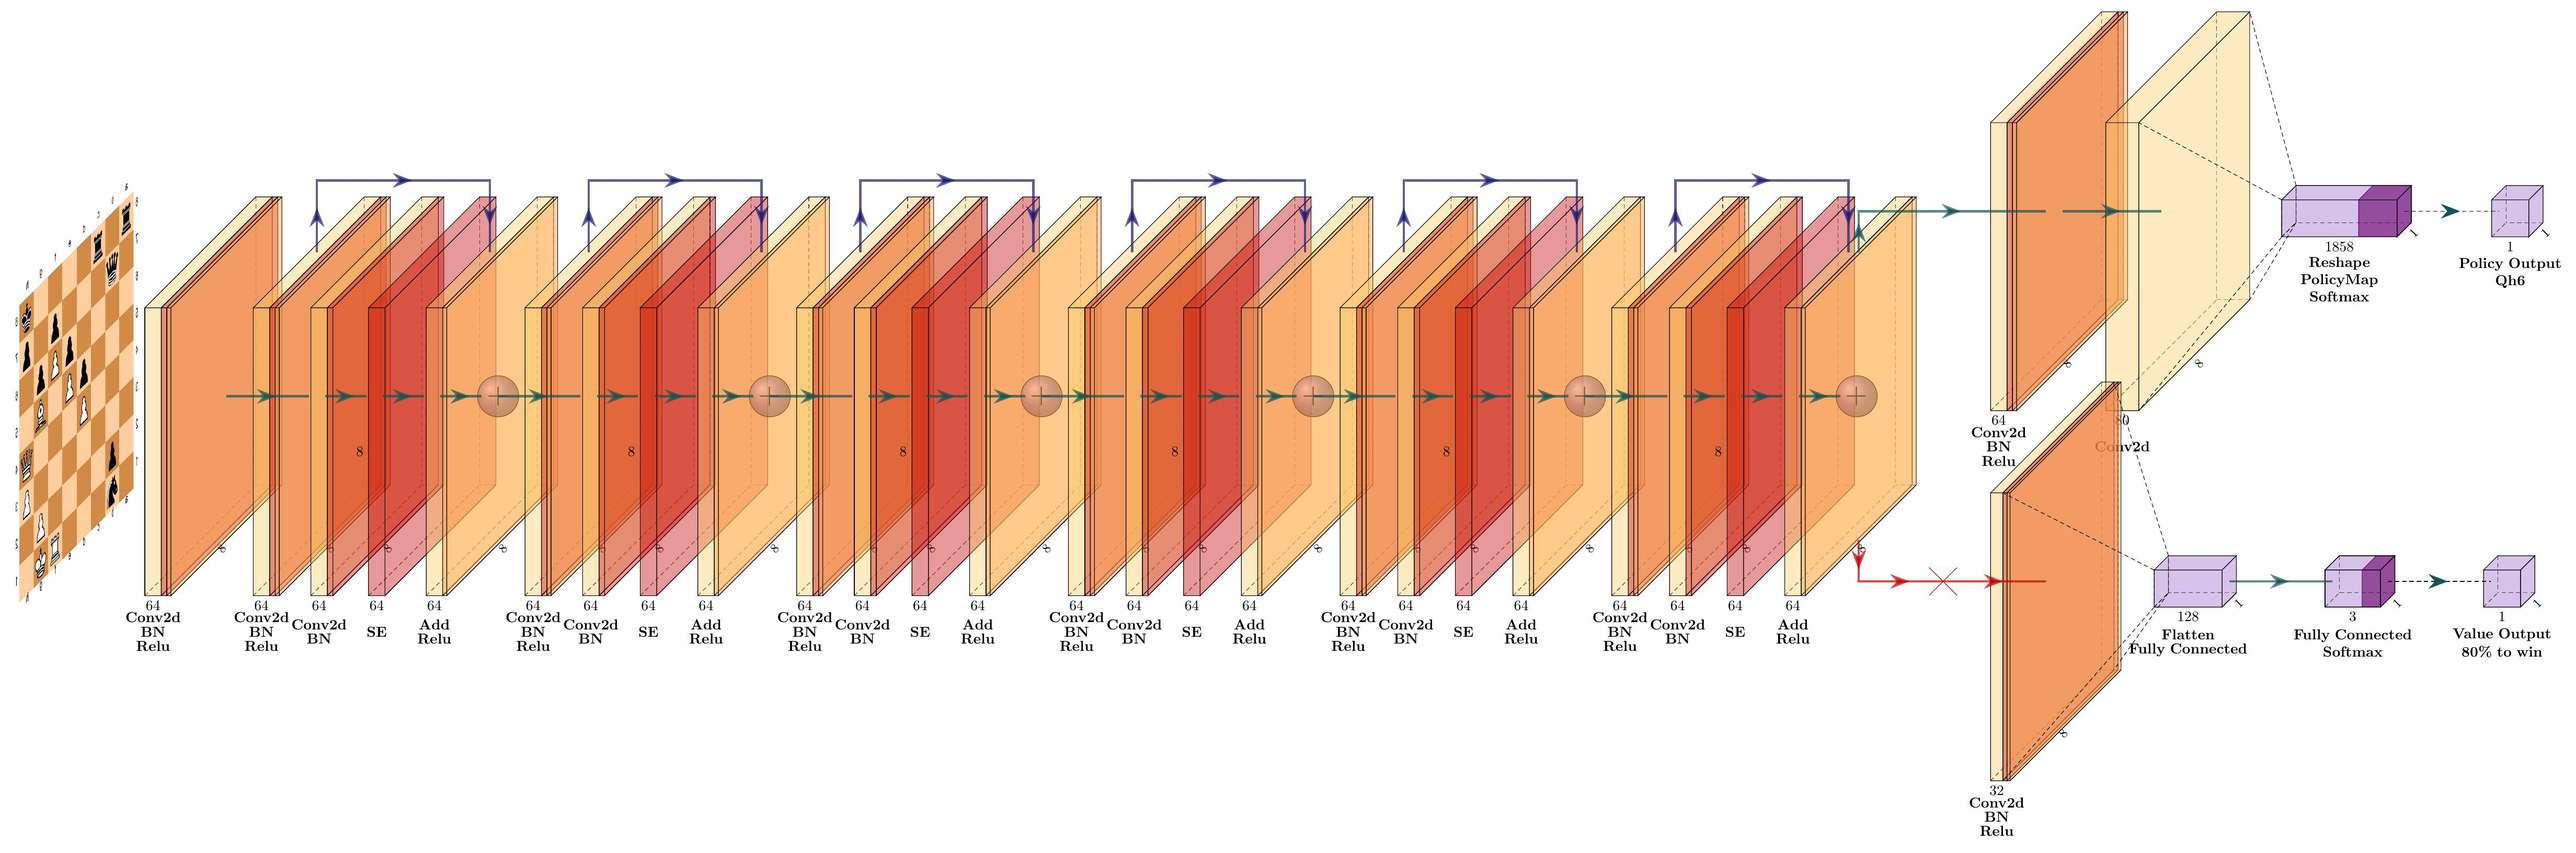
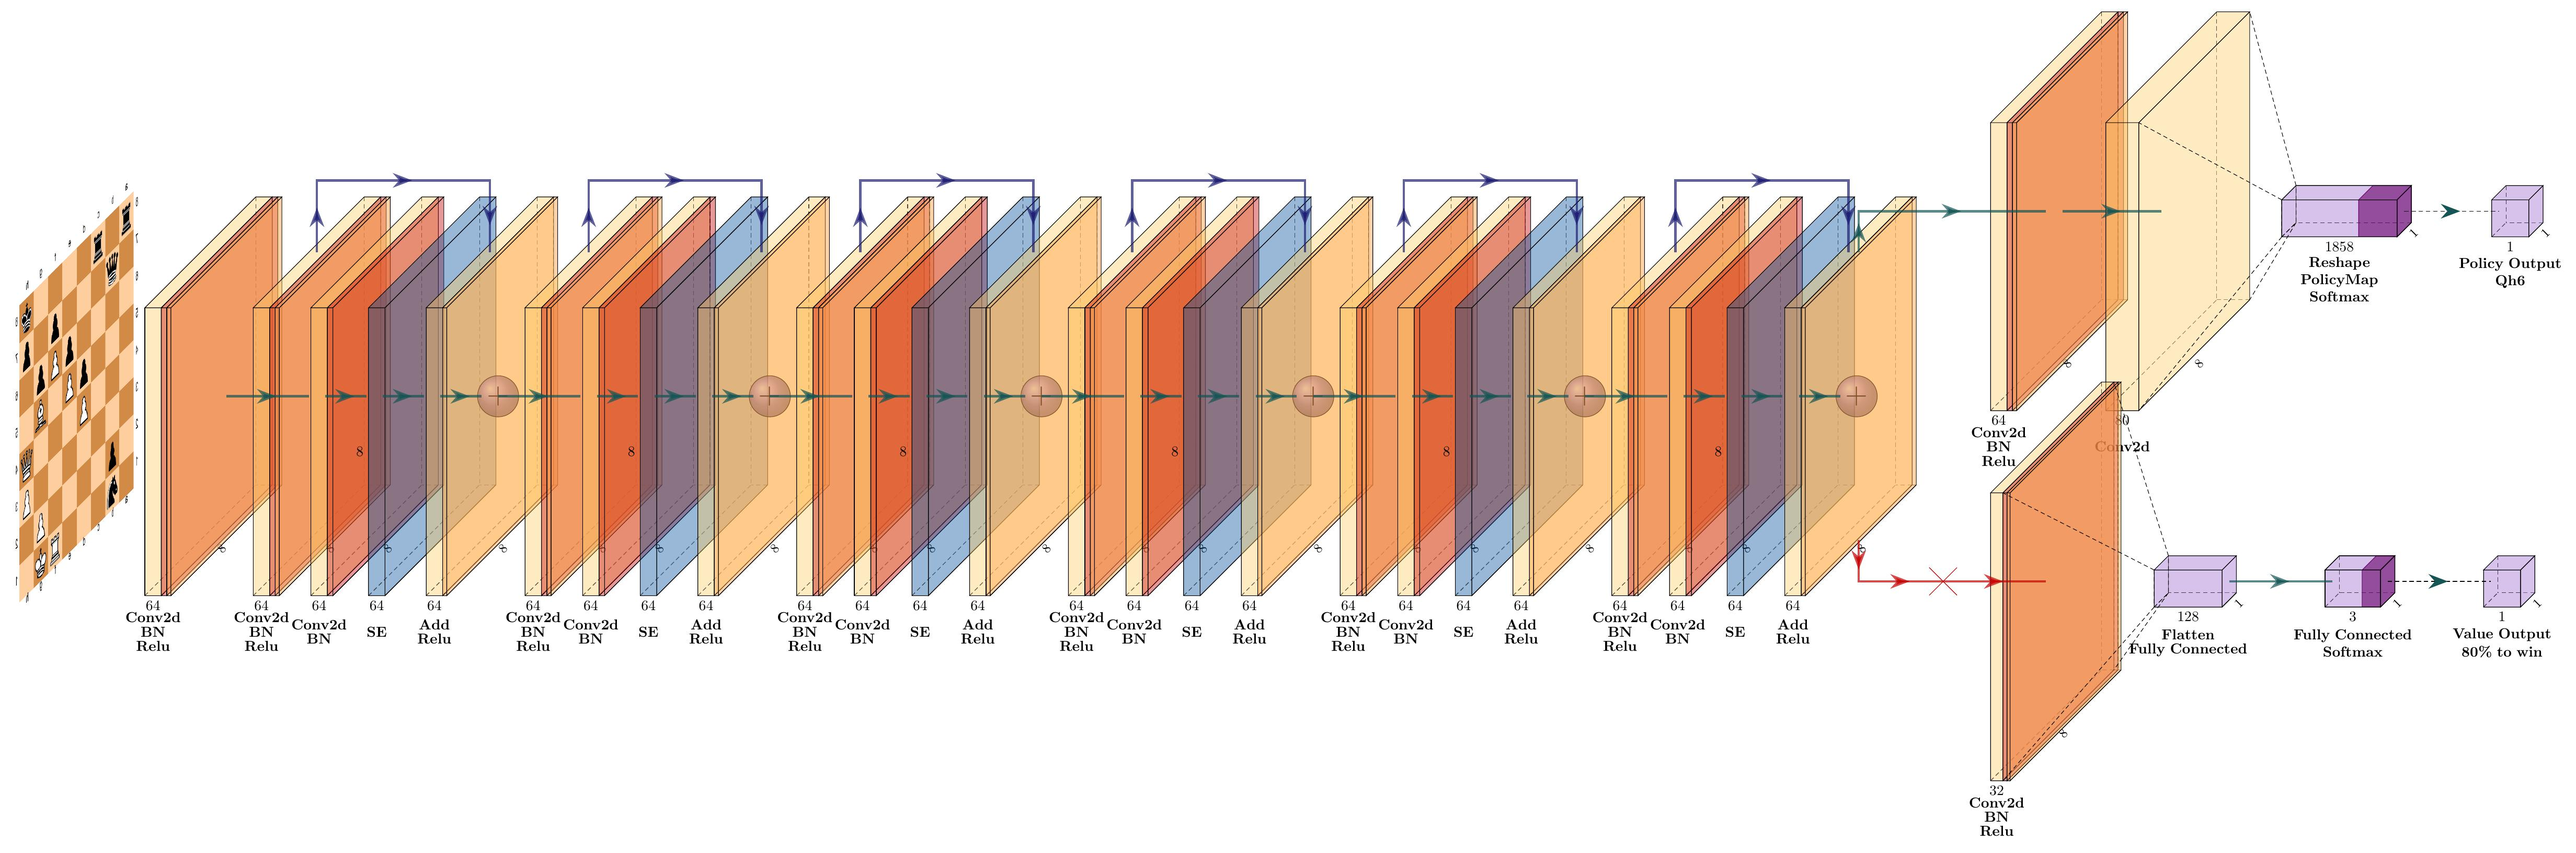
update plots

diff --git a/maia_plots/network_diagram_maia.tex b/maia_plots/network_diagram_maia.tex
@@ -136,7 +136,7 @@
         caption=\makebox[0pt]{\shortstack[c]{SE}},
         xlabel={{64, }},
         ylabel=8,
-        fill=\PoolColor,
+        fill=\OpoolColor,
         height=35,
         width=2,
         depth=35
@@ -260,7 +260,7 @@
         caption=\makebox[0pt]{\shortstack[c]{SE}},
         xlabel={{64, }},
         ylabel=8,
-        fill=\PoolColor,
+        fill=\OpoolColor,
         height=35,
         width=2,
         depth=35
@@ -384,7 +384,7 @@
         caption=\makebox[0pt]{\shortstack[c]{SE}},
         xlabel={{64, }},
         ylabel=8,
-        fill=\PoolColor,
+        fill=\OpoolColor,
         height=35,
         width=2,
         depth=35
@@ -508,7 +508,7 @@
         caption=\makebox[0pt]{\shortstack[c]{SE}},
         xlabel={{64, }},
         ylabel=8,
-        fill=\PoolColor,
+        fill=\OpoolColor,
         height=35,
         width=2,
         depth=35
@@ -632,7 +632,7 @@
         caption=\makebox[0pt]{\shortstack[c]{SE}},
         xlabel={{64, }},
         ylabel=8,
-        fill=\PoolColor,
+        fill=\OpoolColor,
         height=35,
         width=2,
         depth=35
@@ -756,7 +756,7 @@
         caption=\makebox[0pt]{\shortstack[c]{SE}},
         xlabel={{64, }},
         ylabel=8,
-        fill=\PoolColor,
+        fill=\OpoolColor,
         height=35,
         width=2,
         depth=35

diff --git a/pycore/tikzeng.py b/pycore/tikzeng.py
@@ -150,7 +150,7 @@ def to_SE( name, s_filer=256, n_filer=64, offset="(0,0,0)", to="(0,0,0)", width=
         caption="""+ caption +""",
         xlabel={{"""+ str(n_filer) +""", }},
         ylabel="""+ str(s_filer) +""",
-        fill=\PoolColor,
+        fill=\OpoolColor,
         height="""+ str(height) +""",
         width="""+ str(width) +""",
         depth="""+ str(depth) +"""
